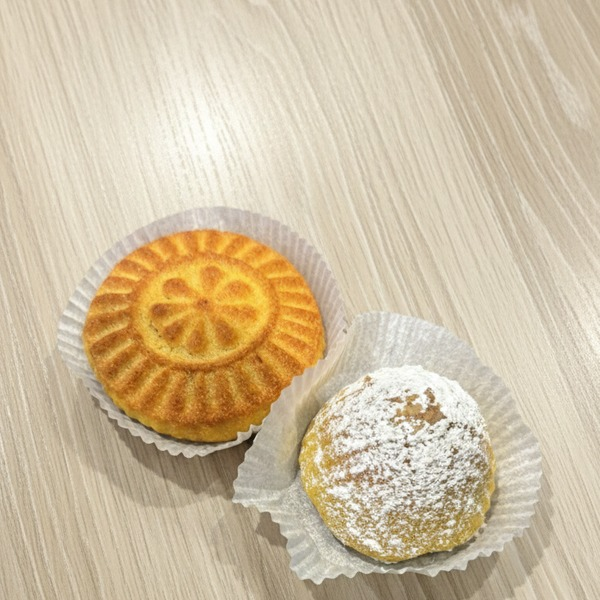
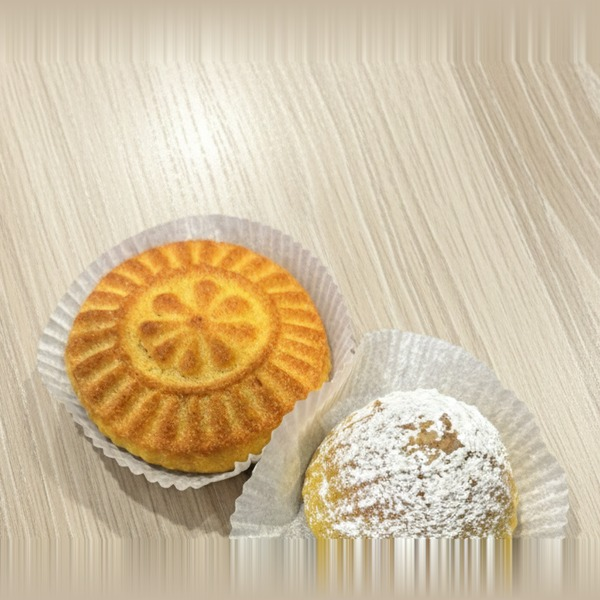
Add baklawas photo + fix duo sablés crop

diff --git a/index.html b/index.html
@@ -500,7 +500,7 @@ const DEMO_ITEMS = [
   // === DESSERTS ===
   {id:50, categorie_id:6, nom:'Mouhalabieh', description:'Flan fleur d\'oranger, pistaches (fait maison)', prix:4.00, emoji:'🍮', image_url:'img/mouhalabieh.jpg', disponible:true},
   {id:51, categorie_id:6, nom:'Namoura', description:'Gâteau de semoule, sirop fleur d\'oranger', prix:4.00, emoji:'🍰', image_url:'img/namoura.jpg', disponible:true},
-  {id:52, categorie_id:6, nom:'Baklawas', description:'Boîte de 3 pièces', prix:4.50, emoji:'🍯', disponible:true},
+  {id:52, categorie_id:6, nom:'Baklawas', description:'Boîte de 3 pièces', prix:4.50, emoji:'🍯', image_url:'img/baklawas.jpg', disponible:true},
   {id:53, categorie_id:6, nom:'Duo Sablés', description:'2 sablés : pistaches, amandes, noix ou dattes', prix:5.00, emoji:'🍪', image_url:'img/duo-sables.jpg', disponible:true},
 
   // === BOISSONS ===
